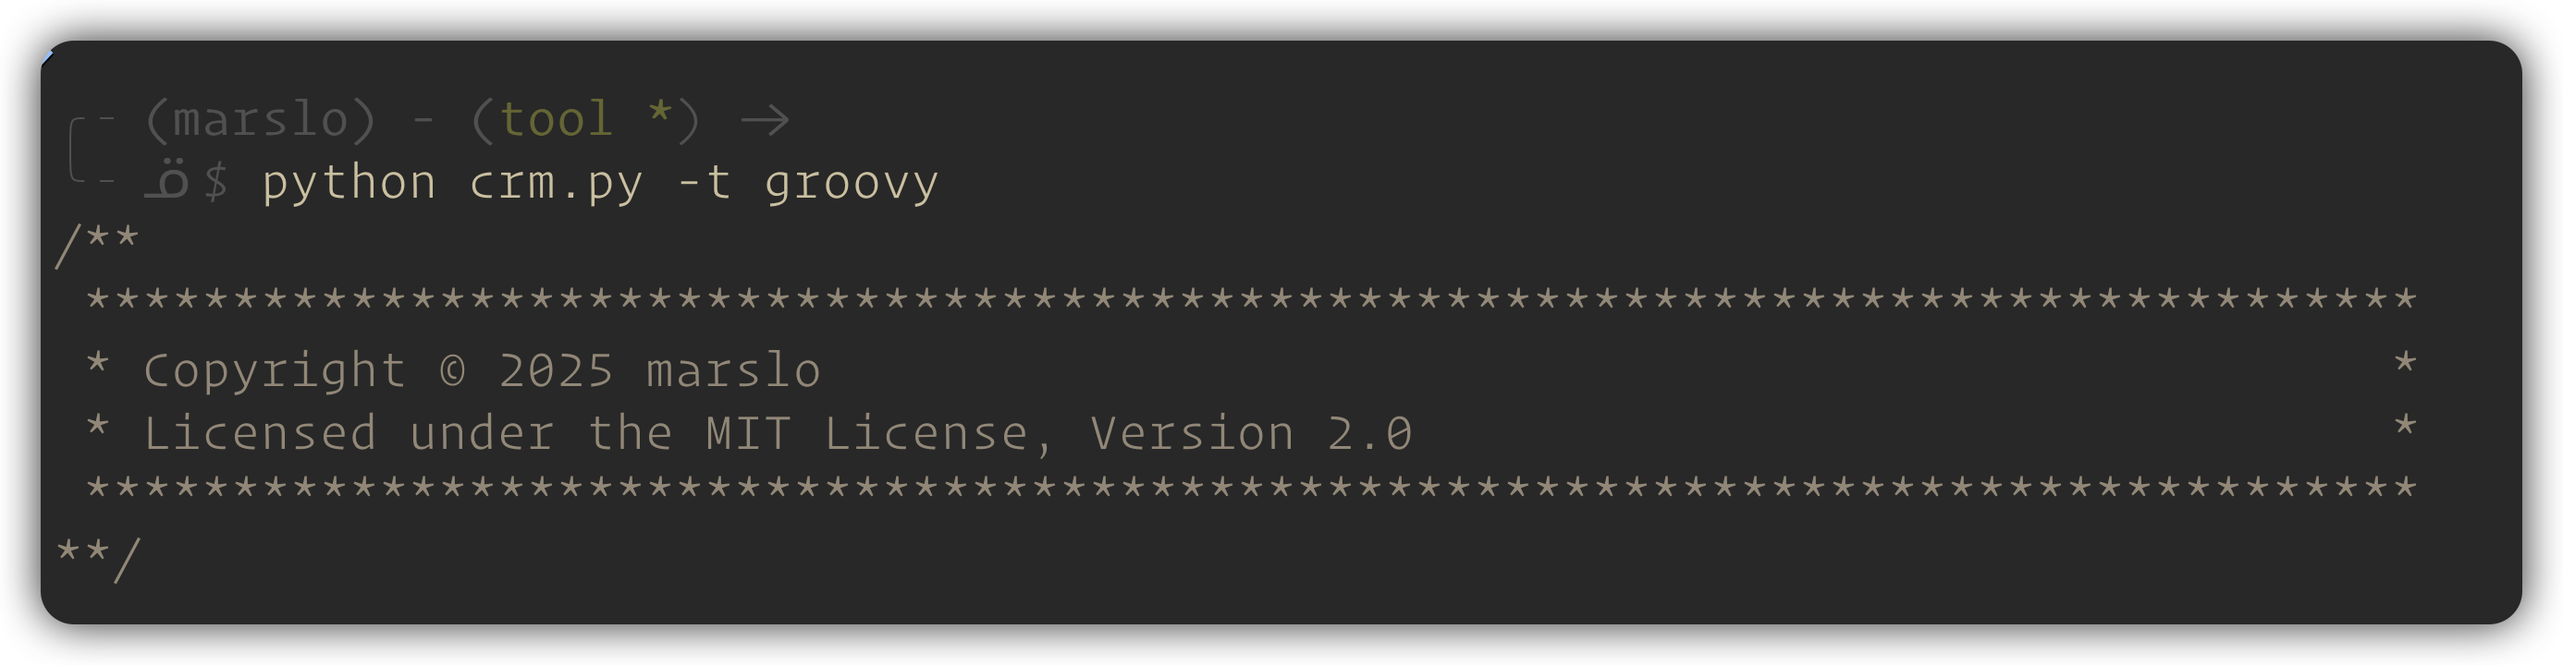
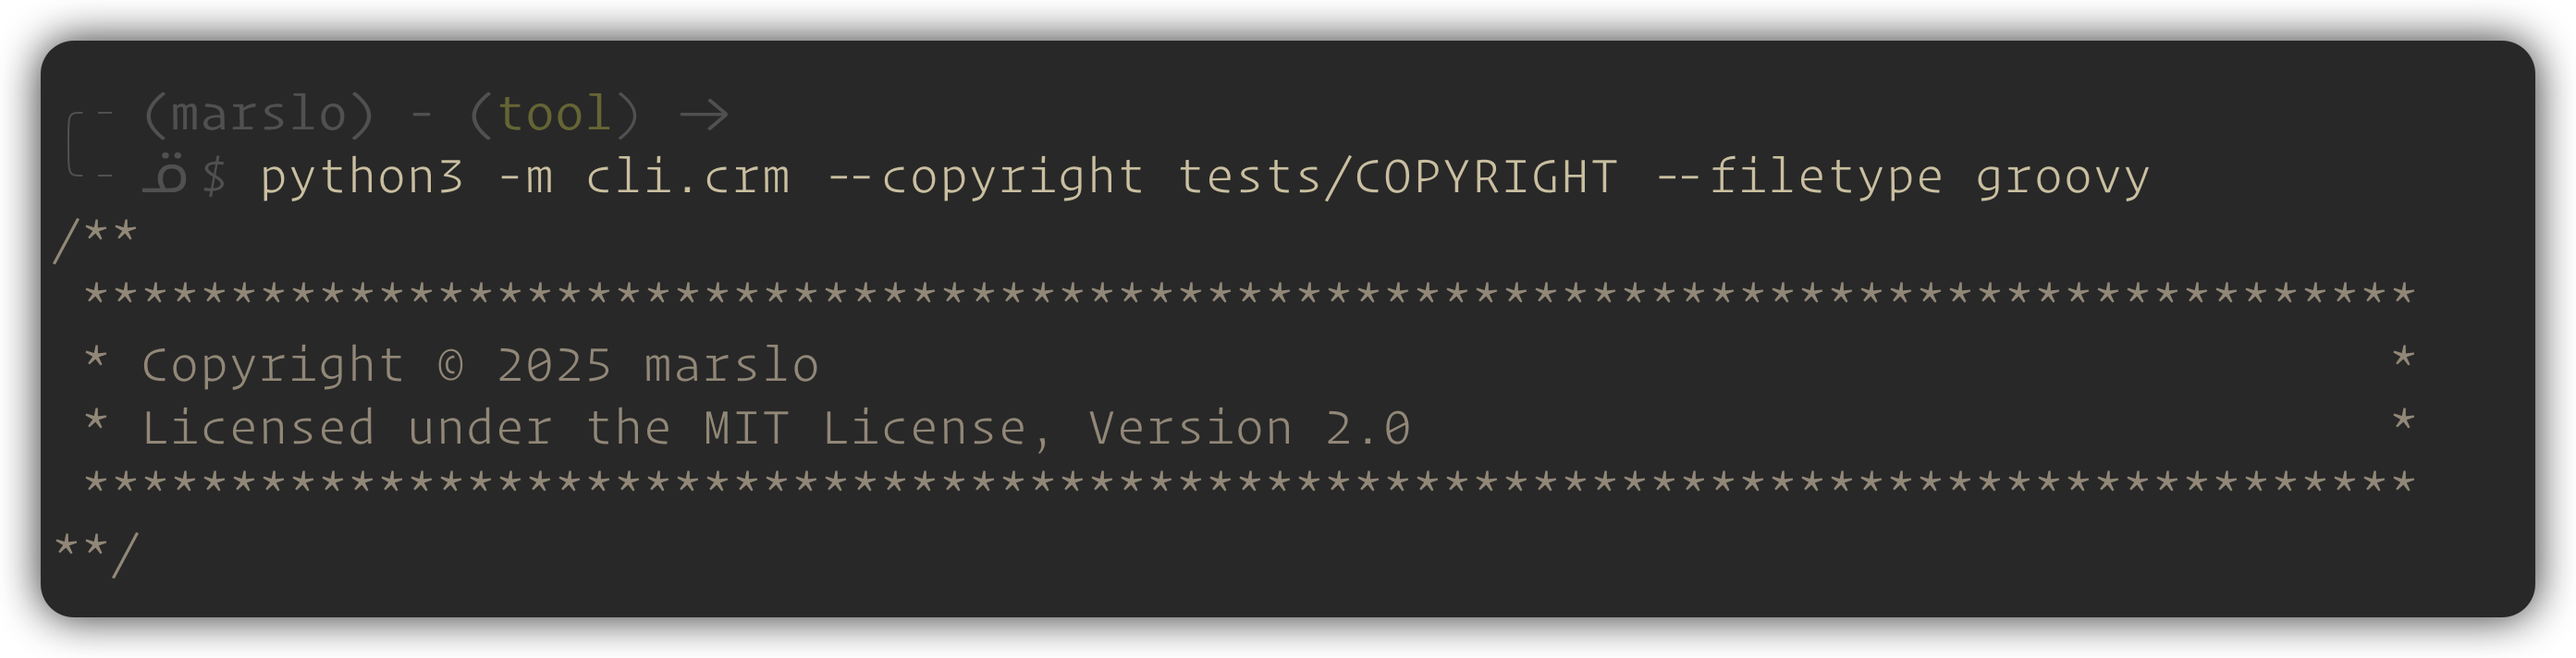
docs: update readme for python model usage

diff --git a/README.md b/README.md
@@ -1,6 +1,25 @@
-# copyright manager (crm.py)
+# cr-manager -- the Copyright Header Manager
 
 A tool to automatically **add**, **update**, or **delete** multi-format copyright headers in source files.
+
+---
+
+- [Features](#features)
+- [Integration to pre-commit hooks](#integration-to-pre-commit-hooks)
+  - [add following content into `.pre-commit-config.yaml` file:](#add-following-content-into-pre-commit-configyaml-file)
+  - [install the pre-commit hooks](#install-the-pre-commit-hooks)
+  - [run the cr-manager for all files ( whitout hook )](#run-the-cr-manager-for-all-files--whitout-hook-)
+  - [automatic check copyright headers on commit](#automatic-check-copyright-headers-on-commit)
+- [Supported File Types and Formats](#supported-file-types-and-formats)
+  - [using filetype to update the un-supported filetype](#using-filetype-to-update-the-un-supported-filetype)
+- [Action Modes](#action-modes)
+- [Usage](#usage)
+  - [add new copyright headers](#add-new-copyright-headers)
+  - [update existing copyright headers](#update-existing-copyright-headers)
+  - [delete existing copyright headers](#delete-existing-copyright-headers)
+  - [debug mode](#debug-mode)
+  - [check specific filetype](#check-specific-filetype)
+  - [help message](#help-message)
 
 ---
 
@@ -11,6 +30,10 @@ A tool to automatically **add**, **update**, or **delete** multi-format copyrigh
 - **Check**: Verify the presence and correctness of headers.
 - **Delete**: Remove detected copyright headers from files.
 - Supports recursive directory traversal and filetype auto-detection or override.
+
+### upcoming features
+
+- Supports combined author-info and copyright headers.
 
 ## Integration to pre-commit hooks
 
@@ -74,6 +97,7 @@ $ git commit -m "your commit message"
 | `python`, `shell`, `bash`, `sh`, `dockerfile` | `.py`, `.sh`, `.dockerfile` |
 
 ```
+$ python -m cli.crm --filetype python
 #===============================================================================
 # Copyright © 2025 marslo                                                      #
 # Licensed under the MIT License, Version 2.0                                  #
@@ -89,6 +113,7 @@ $ git commit -m "your commit message"
 | `jenkinsfile`, `groovy`, `gradle`, `java` | `.groovy`, `.java` |
 
 ```
+$ python -m cli.crm --filetype java
 /**
  *******************************************************************************
  * Copyright © 2025 marslo                                                     *
@@ -106,6 +131,7 @@ $ git commit -m "your commit message"
 | `c`, `cpp`, `c++`, `cxx`, `h`, `hpp`, `hxx` | `.c`, `.cpp`, `.cxx`, `.h`, `.hpp`, `.hxx` |
 
 ```
+$ python -m cli.crm --filetype cpp
 /**
  * Copyright © 2025 marslo
  * Licensed under the MIT License, Version 2.0
@@ -116,6 +142,13 @@ $ git commit -m "your commit message"
 
 ---
 
+### using filetype to update the un-supported filetype
+```bash
+$ python -m cli.crm [--update] --filetype python /path/to/file.txt
+```
+
+![un-supported filetype](./screenshots/handle-unsupported-filetype.png)
+
 ## Action Modes
 
 > [!TIP]
@@ -123,6 +156,7 @@ $ git commit -m "your commit message"
 
 | OPTION     | DESCRIPTION                                                                 |
 | ---------- | --------------------------------------------------------------------------- |
+|            | Add mode: Automatically adds copyright headers to files.                    |
 | `--check`  | Check mode: Verifies file copyright status (match, mismatch, or not found). |
 | `--delete` | Delete mode: Removes detected copyright headers from files.                 |
 | `--update` | Update mode: Forces replacement of copyright or adds it if missing.         |
@@ -132,14 +166,14 @@ $ git commit -m "your commit message"
 ### add new copyright headers
 ```bash
 # single file
-$ python crm.py /path/to/file
+$ python -m cli.crm /path/to/file
 
 # files recursively in directories
-$ python crm.py --recursive /path/to/directory
+$ python -m cli.crm --recursive /path/to/directory
 
 # add to non-supported suffixes with supplied filetype
 # -- e.e. add to .txt files as python files --
-$ python crm.py --filetype python /path/to/file.txt
+$ python -m cli.crm --filetype python /path/to/file.txt
 ```
 
 ### update existing copyright headers
@@ -149,10 +183,10 @@ $ python crm.py --filetype python /path/to/file.txt
 
 ```bash
 # single file
-$ python crm.py --update /path/to/file
+$ python -m cli.crm --update /path/to/file
 
 # files recursively in directories
-$ python crm.py --update --recursive /path/to/directory
+$ python -m cli.crm --update --recursive /path/to/directory
 ```
 
 ### delete existing copyright headers
@@ -162,29 +196,22 @@ $ python crm.py --update --recursive /path/to/directory
 
 ```bash
 # single file
-$ python crm.py --delete /path/to/file
+$ python -m cli.crm --delete /path/to/file
 
 # files recursively in directories
-$ python crm.py --delete --recursive /path/to/directory
+$ python -m cli.crm --delete --recursive /path/to/directory
 ```
 
 ### debug mode
 ```bash
 # *add* without modifying files
-$ python crm.py --debug /path/to/file
+$ python -m cli.crm --debug /path/to/file
 
 $ *update* without modifying files
-$ python crm.py --update --debug /path/to/file
+$ python -m cli.crm --update --debug /path/to/file
 
 # *delete* without modifying files
-$ python crm.py --delete --debug /path/to/file
-```
-
-### check specific filetype
-```bash
-$ python crm.py --filetype python
-$ python crm.py --filetype java
-$ python crm.py --filetype cpp
+$ python -m cli.crm --delete --debug /path/to/file
 ```
 
 ### help message
